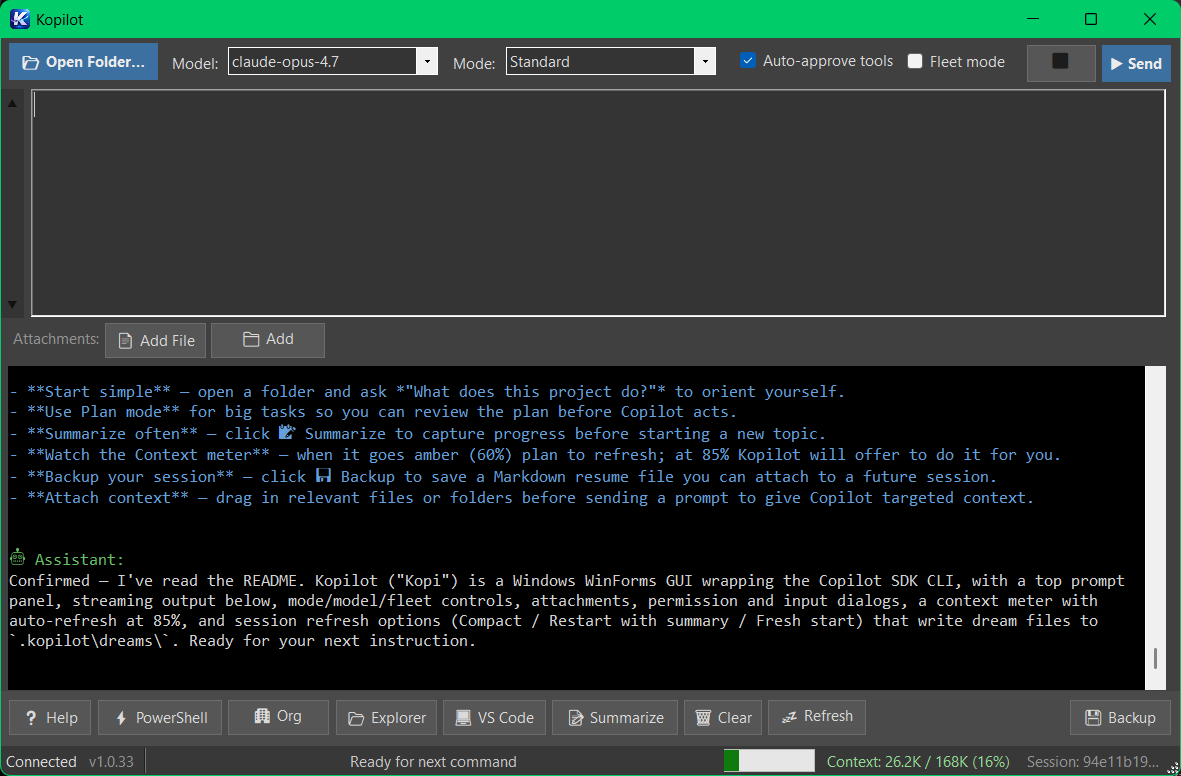
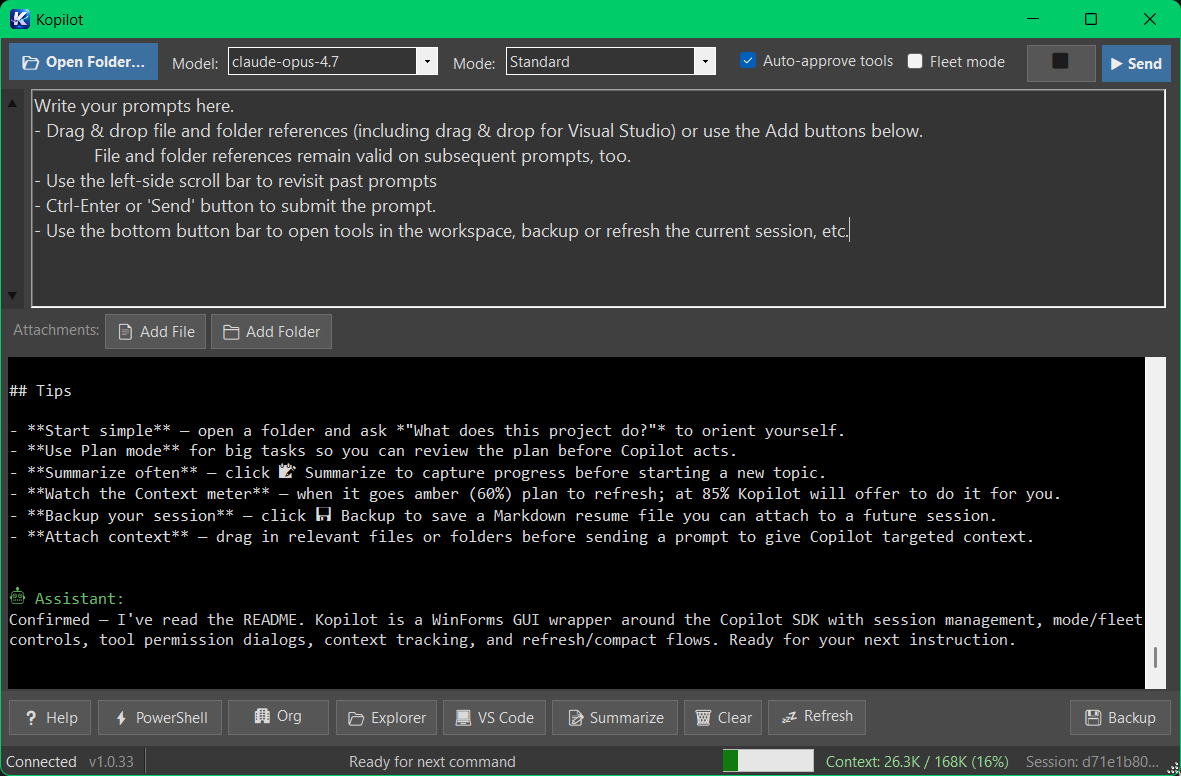
more Readme edits, slight UI tweak to button sizes

diff --git a/Kopilot/MainForm.Designer.cs b/Kopilot/MainForm.Designer.cs
@@ -344,7 +344,7 @@ partial class MainForm
 		richTextBoxOutput.Name = "richTextBoxOutput";
 		richTextBoxOutput.ReadOnly = true;
 		richTextBoxOutput.ScrollBars = RichTextBoxScrollBars.Vertical;
-		richTextBoxOutput.Size = new Size(1158, 1012);
+		richTextBoxOutput.Size = new Size(1158, 1011);
 		richTextBoxOutput.TabIndex = 0;
 		richTextBoxOutput.Text = "";
 		// 
@@ -557,7 +557,7 @@ partial class MainForm
 		buttonAddFolder.Location = new Point(210, 0);
 		buttonAddFolder.Margin = new Padding(3, 4, 3, 4);
 		buttonAddFolder.Name = "buttonAddFolder";
-		buttonAddFolder.Size = new Size(114, 35);
+		buttonAddFolder.Size = new Size(121, 35);
 		buttonAddFolder.TabIndex = 2;
 		buttonAddFolder.Text = "📁 Add Folder";
 		toolTipMain.SetToolTip(buttonAddFolder, "Attach a folder to the prompt");

diff --git a/README.md b/README.md
@@ -3,7 +3,20 @@
 **Kopilot** (nicknamed *Kopi*) is a Windows desktop GUI for the [GitHub Copilot SDK](libs/copilot-sdk). It wraps the Copilot CLI experience in a friendly WinForms interface so you can chat with Copilot, approve tool operations, and manage your session — all without leaving a graphical window.
 
 
+## Why this exists
+
+This is intended as an aide for my own personal workflow using Copilot CLI. I find it difficult to work in the terminal, so I built a Windows app that makes it easier for me to edit prompts, save and retore session state, launch tools within the workspace, etc.
+
+Think of this as an alternate front-end for the Copilot CLI for people too accustomed to using standard Windows forms and editors. :)
+
+## Did Copilot write Kopilot?
+
+Mostly yes. This is a Copilot CLI generated tool to make the Copilot CLI easier to use (for me).
+
+---
+
 ![screenshot](screenshot.png)
+
 ---
 
 ## Requirements
